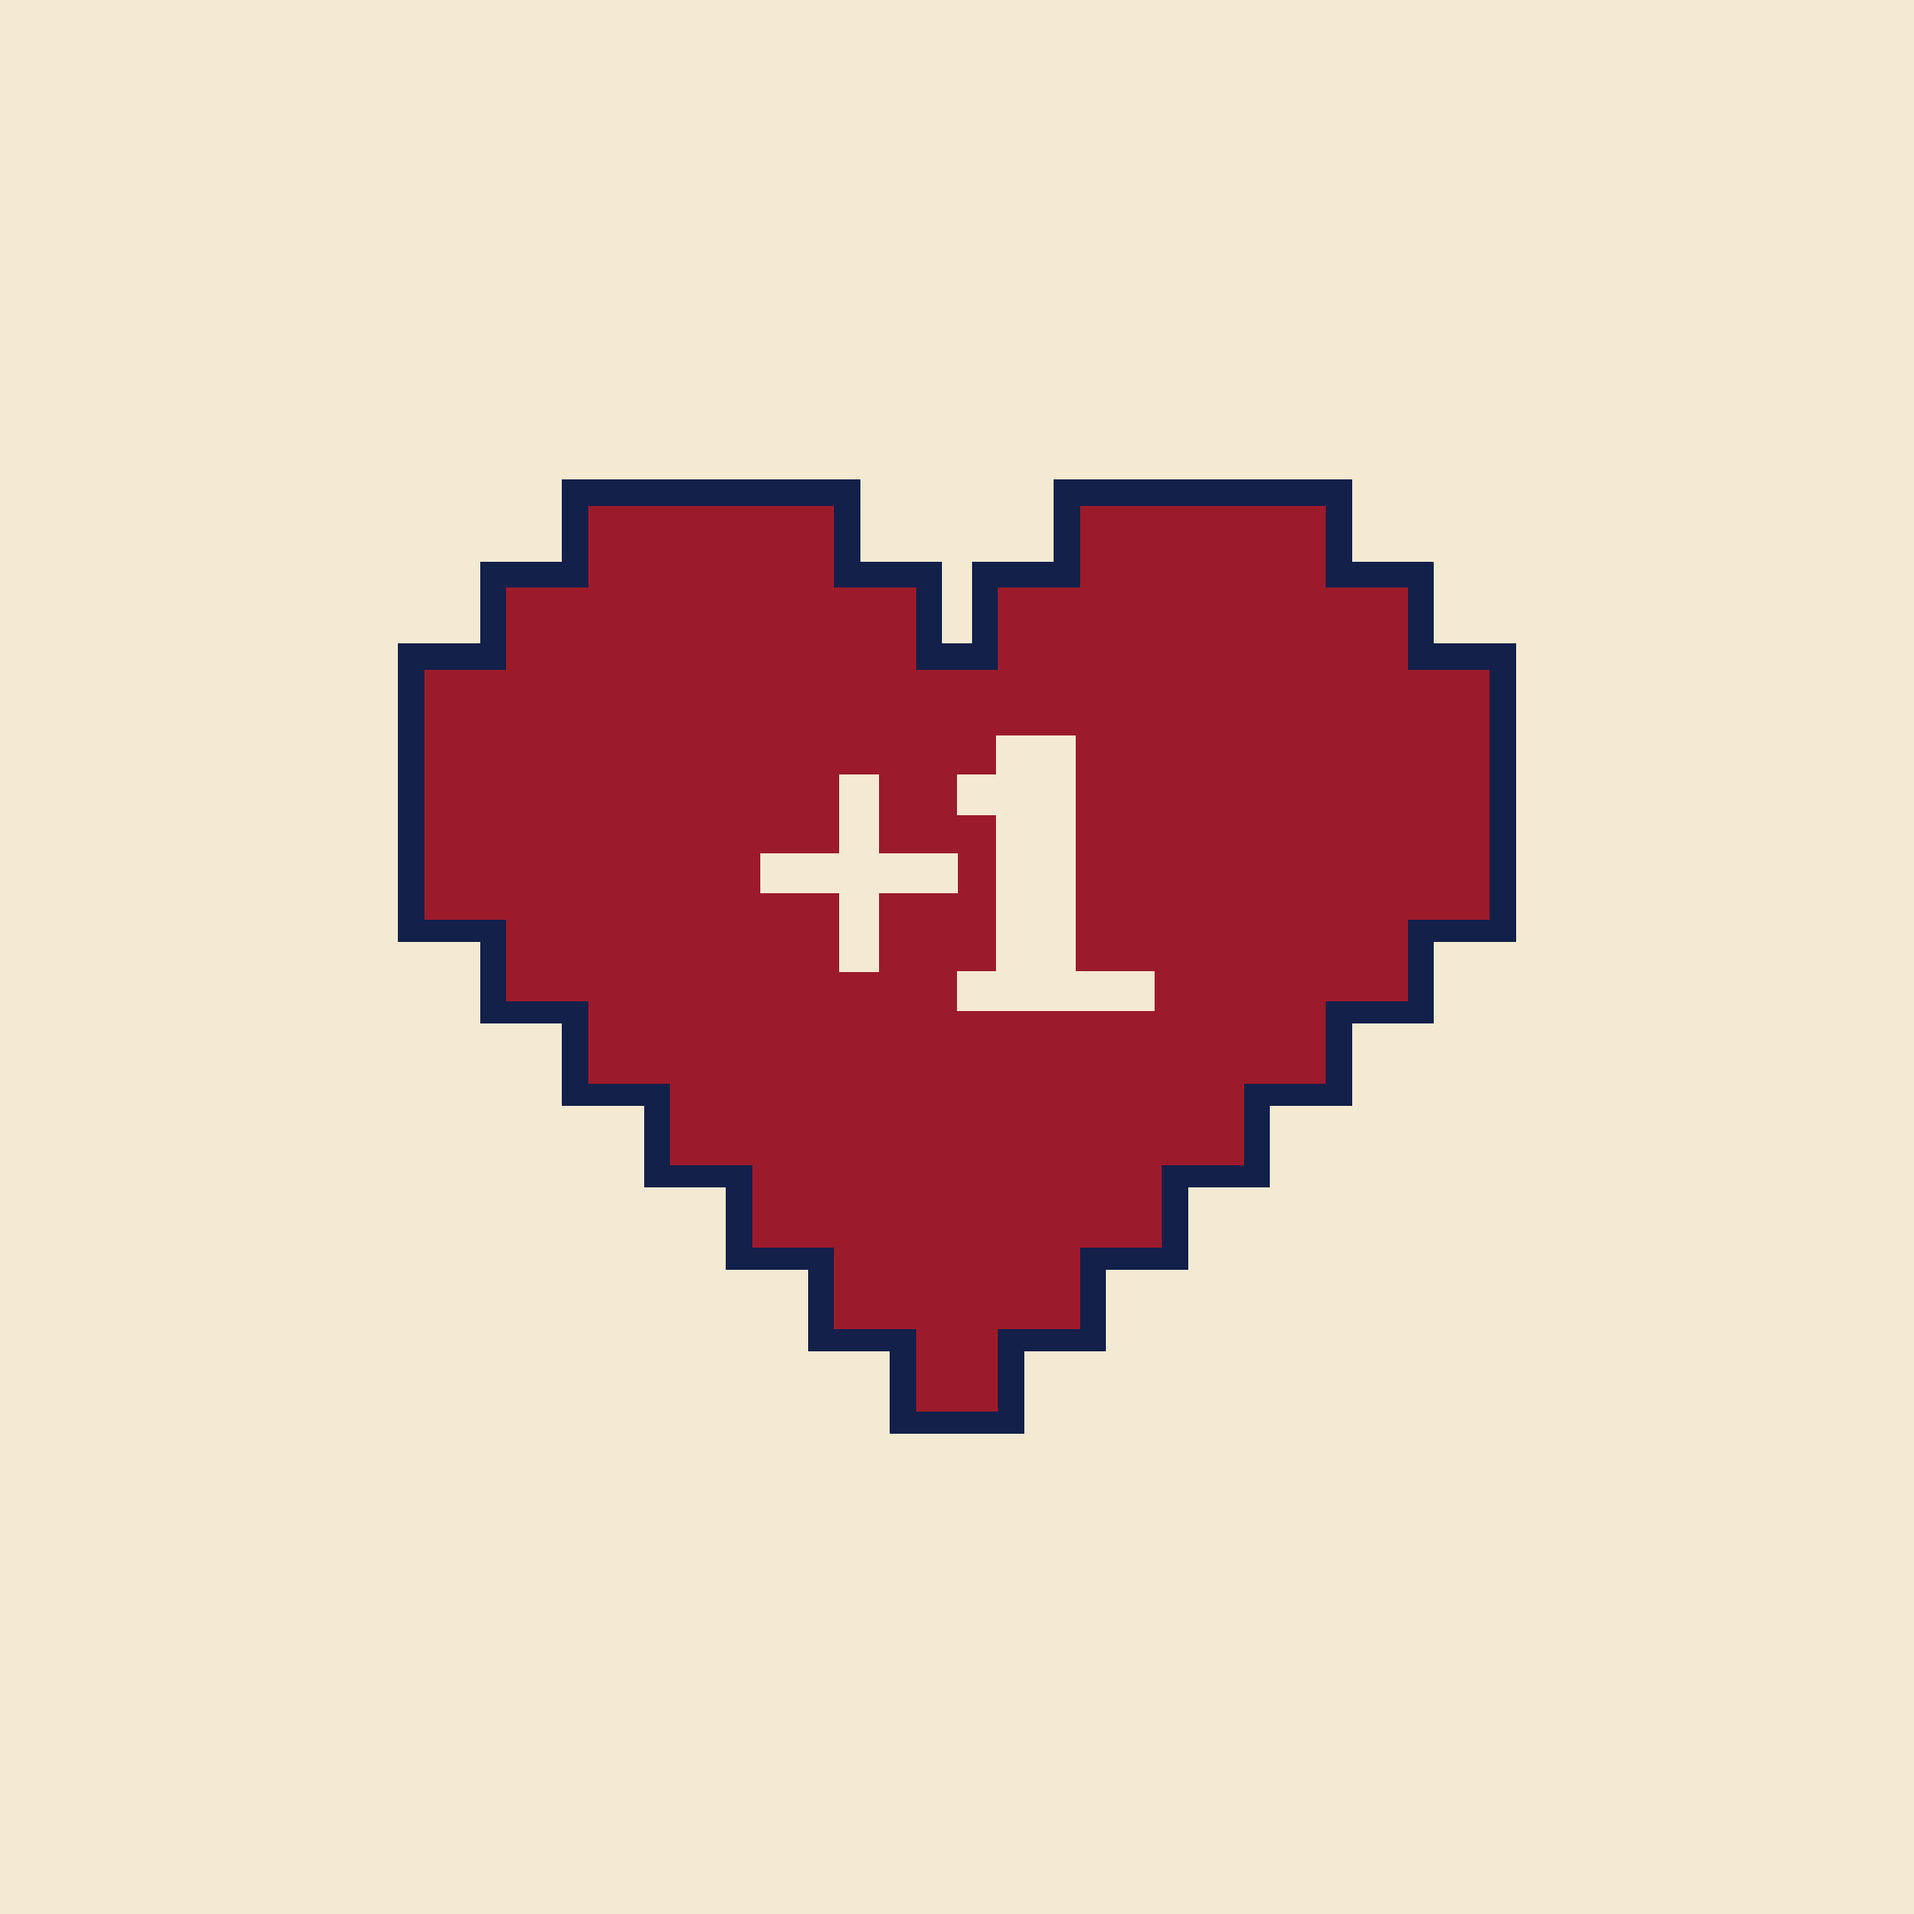
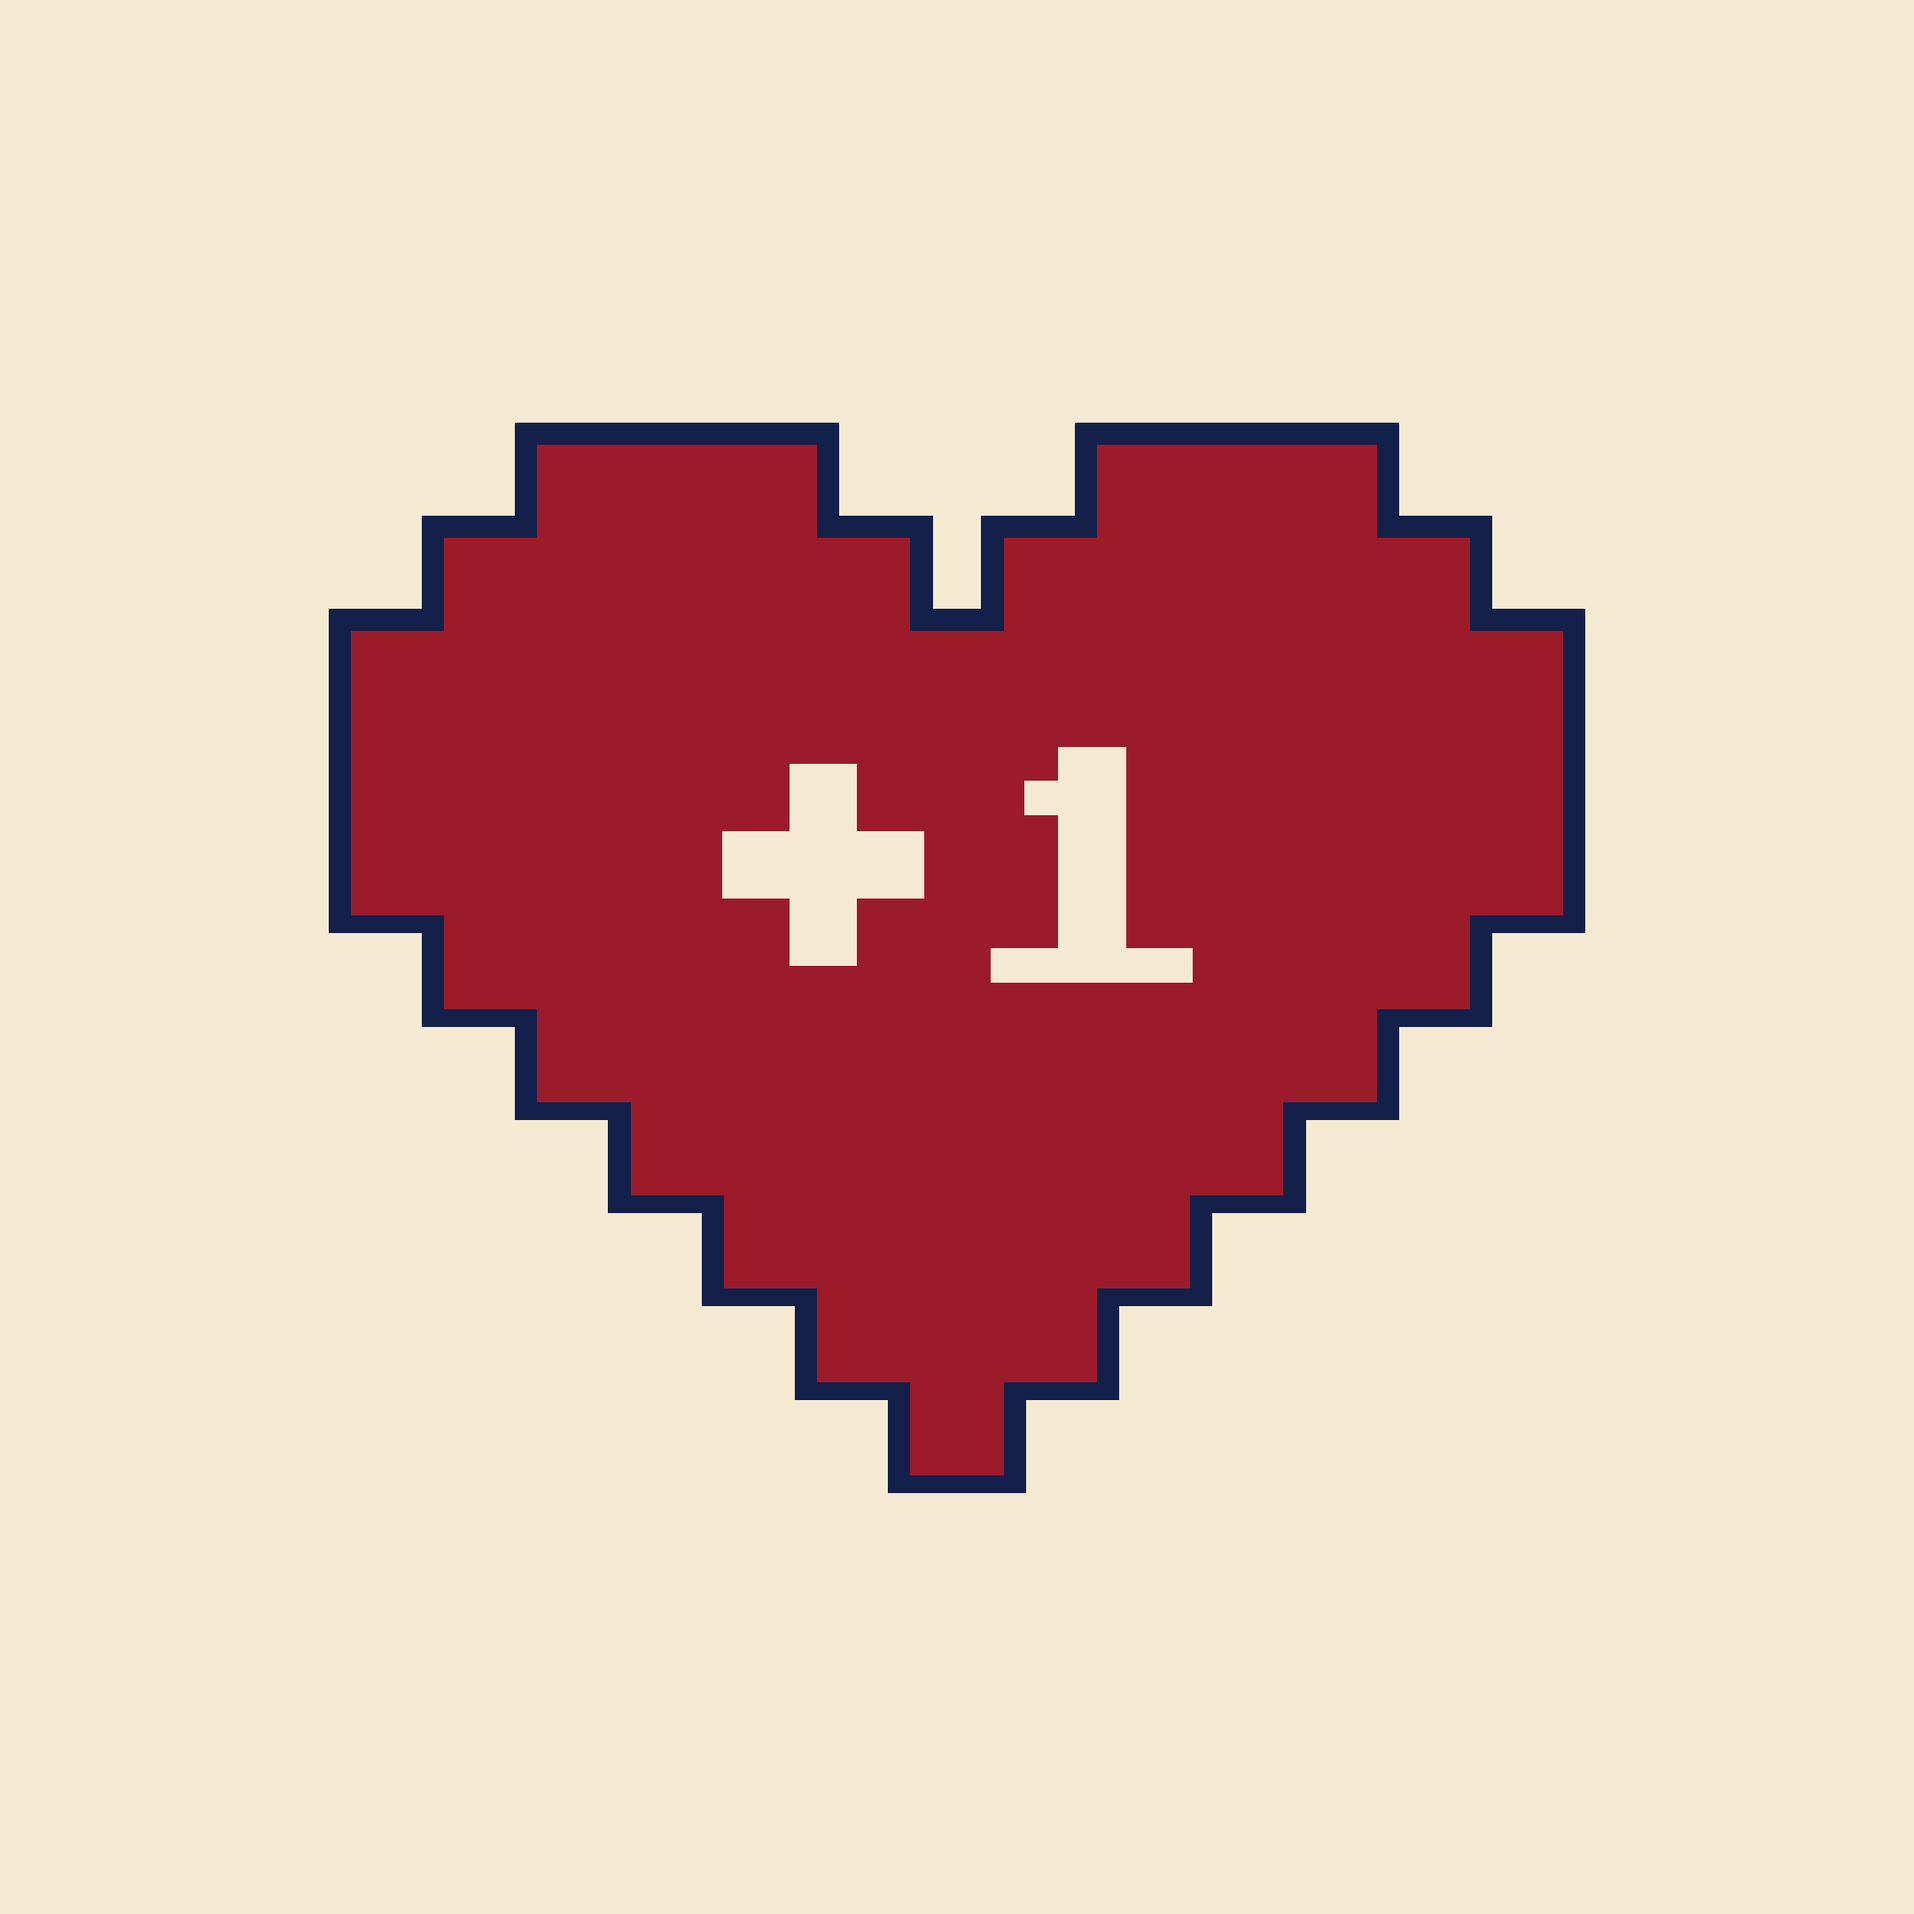
Rework profile mark: centred pixel +1, larger heart, thinner outline
Replace the font-dependent +1 with an evenly stroked pixel glyph placed
at the heart's optical centre, scale the heart to two thirds of the
avatar and slim the outline. Add an avatar comparison on light and dark
backgrounds.

Claude-Session: https://claude.ai/code/session_016MhpHubkyT9LhNT91FdgZQ

Changed region(s): [[0.1551, 0.2171, 0.8375, 0.8065]]

diff --git a/brand/assets.html b/brand/assets.html
@@ -17,7 +17,7 @@ svg{display:block}
 .profile{width:1080px;height:1080px;display:flex;align-items:center;justify-content:center}
 .profile.cream{background:var(--cream)}
 .profile.navy{background:var(--navy)}
-.profile svg{width:640px}
+.profile svg{width:720px}
 
 /* Banner 1280×288 (eBay), 2× gerendert */
 .banner{width:1280px;height:288px;background:var(--cream);display:flex;align-items:center;justify-content:center;gap:56px}
@@ -86,15 +86,19 @@ function heartRects(u,ox,oy,o){let navy='',red='';
 
 // Profilbild: nur das Herz (Bogentext wäre klein nicht lesbar)
 function heartMark(outline){
-  const u=10,o=3.2,{navy,red}=heartRects(u,0,0,o);
+  const u=10,o=2.4,{navy,red}=heartRects(u,0,0,o);
   return `<svg viewBox="${-o-1} ${-o-1} ${130+2*o+2} ${110+2*o+2}" shape-rendering="crispEdges">
     <g fill="${outline}">${navy}</g><g fill="${RED}">${red}</g>
-    <g fill="${CREAM}">${plusOne(41,28,4.8)}</g></svg>`;
+    <g fill="${CREAM}">${plusOne(65,45,3.6)}</g></svg>`;
 }
-// "+1" als Pixel (schriftunabhängig)
-function plusOne(ox,oy,s){
-  const g=['......##..','..#..###..','..#...##..','#####.##..','..#...##..','..#...##..','.....#####'];let r='';
-  g.forEach((row,y)=>[...row].forEach((c,x)=>{if(c==='#')r+=`<rect x="${ox+x*s}" y="${oy+y*s}" width="${s+.1}" height="${s+.1}"/>`}));
+// "+1" als Pixel (schriftunabhängig), gleichmäßige 2er-Striche wie im Logo.
+// cx/cy = Mittelpunkt, s = Pixelgröße
+function plusOne(cx,cy,s){
+  const one=['..##..','.###..','..##..','..##..','..##..','..##..','######'];
+  const plus=['..##..','..##..','######','######','..##..','..##..'];
+  const W=14,H=7,ox=cx-W*s/2,oy=cy-H*s/2;let r='';
+  const put=(g,dx,dy)=>g.forEach((row,y)=>[...row].forEach((c,x)=>{if(c==='#')r+=`<rect x="${ox+(dx+x)*s}" y="${oy+(dy+y)*s}" width="${s+.1}" height="${s+.1}"/>`}));
+  put(plus,0,.5);put(one,8,0);
   return r;
 }
 function badgeSVG(){
